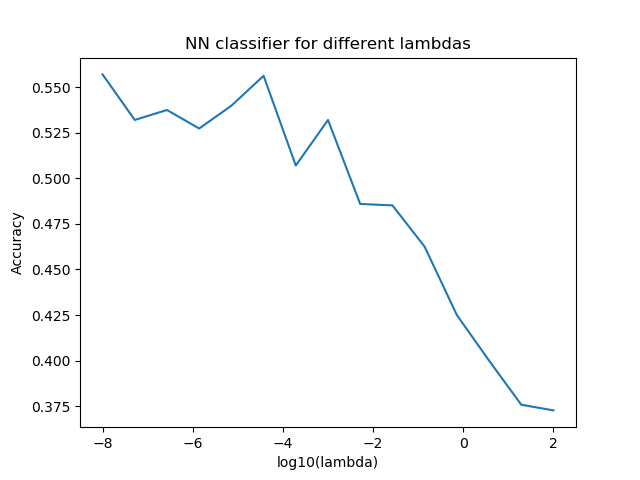
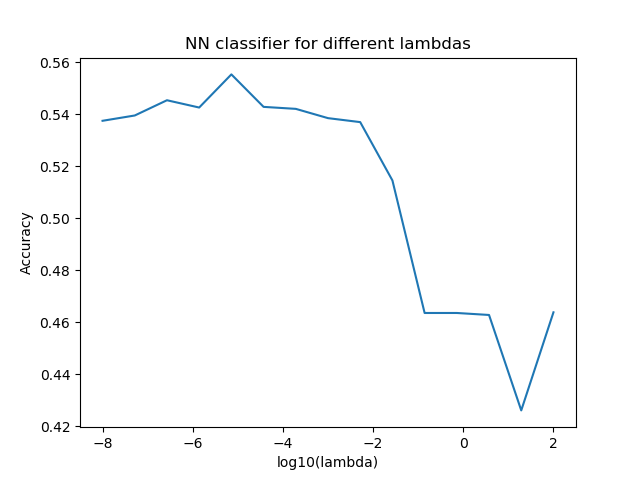
p3

diff --git a/Project3/data_p3.py b/Project3/data_p3.py
@@ -28,9 +28,9 @@ dfr = pd.read_csv('./Data/winequality-red.csv', sep = ';')
 dfw = pd.read_csv('./Data/winequality-white.csv', sep = ';')
 
 # Create design matrix and target variable
-X = dfr.iloc[:, :11].values
-y = dfr.iloc[:, 11].values
-y_c = dfr.iloc[:, 11]
+X = dfw.iloc[:, :11].values
+y = dfw.iloc[:, 11].values
+y_c = dfw.iloc[:, 11]
 
 # Holdout data for final test
 X, X_T, y, y_T, y_c, y_c_T = train_test_split(X, y, y_c, test_size = 0.2, random_state = 2)
@@ -168,7 +168,7 @@ NNc_ = KerasClassifier(build_fn=NNc.build_network, verbose = 0)
 scores_NNc = cross_val_score(NNc_, X_, y_onehot, cv = cv, verbose = 0)
 #print(scores_NNc)
 print('CV accuracy score NNc: %0.3f (+/- %0.3f)' % (scores_NNc.mean(), scores_NNc.std()*2))
-
+"""
 # Find the number of epochs
 history = NNc.build_network().fit(Xtrain, ytrain_onehot, validation_split=0.3, epochs=100, batch_size=32)
 #print(history.history.keys())
@@ -189,7 +189,7 @@ plt.xlabel('epoch')
 plt.legend(['train', 'test'], loc='upper left')
 plt.savefig('./Images/loss_hist_cat.png')
 plt.clf()
-
+"""
 # Best regularization parameter
 nlambdas = 15
 lambdas = np.logspace(-8, 2, nlambdas)
@@ -219,7 +219,7 @@ plt.clf()
 #Grid search over different parameters
 NNc = NNclassifier(alpha = lambda_best)
 
-parameters = {'layer_sizes':([128],[128,64],[256,128,64,32]), 'activation_function':['sigmoid','relu'], 'batch_size': [16,32,64]}
+parameters = {'layer_sizes':([128],[128,64],[256,128,64,32]), 'activation_function':['sigmoid','relu'], 'epochs': [20,50,100]}
 nnClassifier = KerasClassifier(build_fn=build_network, alpha = lambda_best, verbose=0)
 gs_nn = GridSearchCV(nnClassifier, parameters, cv=cv, verbose=0, n_jobs=-1)
 gs_nn.fit(Xtrain, ytrain_onehot)
@@ -250,19 +250,9 @@ pred_nn = NNc_b_.predict_classes(X_Tt)
 print('Accuracy NN test:', accuracy_score(y_T, pred_nn))
 print(classification_report(y_T, pred_nn))
 
-#add here random Forest
-RFbest.fit(Xt, y_onehot)
-pred_rf = RFbest.predict_classes(X_Tt)
-print('Accuracy RF test:', accuracy_score(y_T, pred_rf))
-print(classification_report(y_T, pred_rf))
+models = list([reg, SVM_opt, NNc_b_])
 
-#and xgboost
-XGbest.fit(Xt, y_onehot)
-pred_xg = XGbest.predict_classes(X_Tt)
-print('Accuracy XG test:', accuracy_score(y_T, pred_xg))
-print(classification_report(y_T, pred_xg))
-
-models = list([reg, SVM_opt, NNc_b_, #add RF, add XG])
+quit()
 
 n_bootstraps = 100
 scores = np.empty((n_bootstraps, len(models)))
@@ -283,8 +273,6 @@ for m_int, m in enumerate(models):
 sns.distplot(scores[:,0], color="skyblue", label="Logistic Regression")
 sns.distplot(scores[:,1], color="red", label="SVM")
 sns.distplot(scores[:,2], color="green", label='Neural Network')
-sns.distplot(scores[:,3], color="green", label='Random Forest')
-sns.distplot(scores[:,4], color="green", label='XGBoost')
 plt.legend()
 plt.title('Accuracy scores on the test data')
 plt.xlabel('Accuracy')

diff --git a/Project3/classes_p3.py b/Project3/classes_p3.py
@@ -11,7 +11,7 @@ from keras.models import Model, Sequential
 from keras.layers import Dense
 from keras import regularizers
 
-def build_network(layer_sizes=[128, 64, 32], n_outputs = 9,
+def build_network(layer_sizes=[128, 64, 32], n_outputs = 10,
                 batch_size=32,
                 epochs=20,
                 optimizer="Adam",
@@ -55,7 +55,7 @@ class NNclassifier():
         #    layer_sizes = [layer_sizes]
         for layer_size in self.layer_sizes:
             model.add(Dense(layer_size, activation = self.activation_function, kernel_regularizer=regularizers.l2(self.alpha)))
-        model.add(Dense(9, activation = self.output_activation))
+        model.add(Dense(10, activation = self.output_activation))
         model.compile(loss=self.loss, optimizer=self.optimizer, metrics = ['accuracy'])
         return model
 
